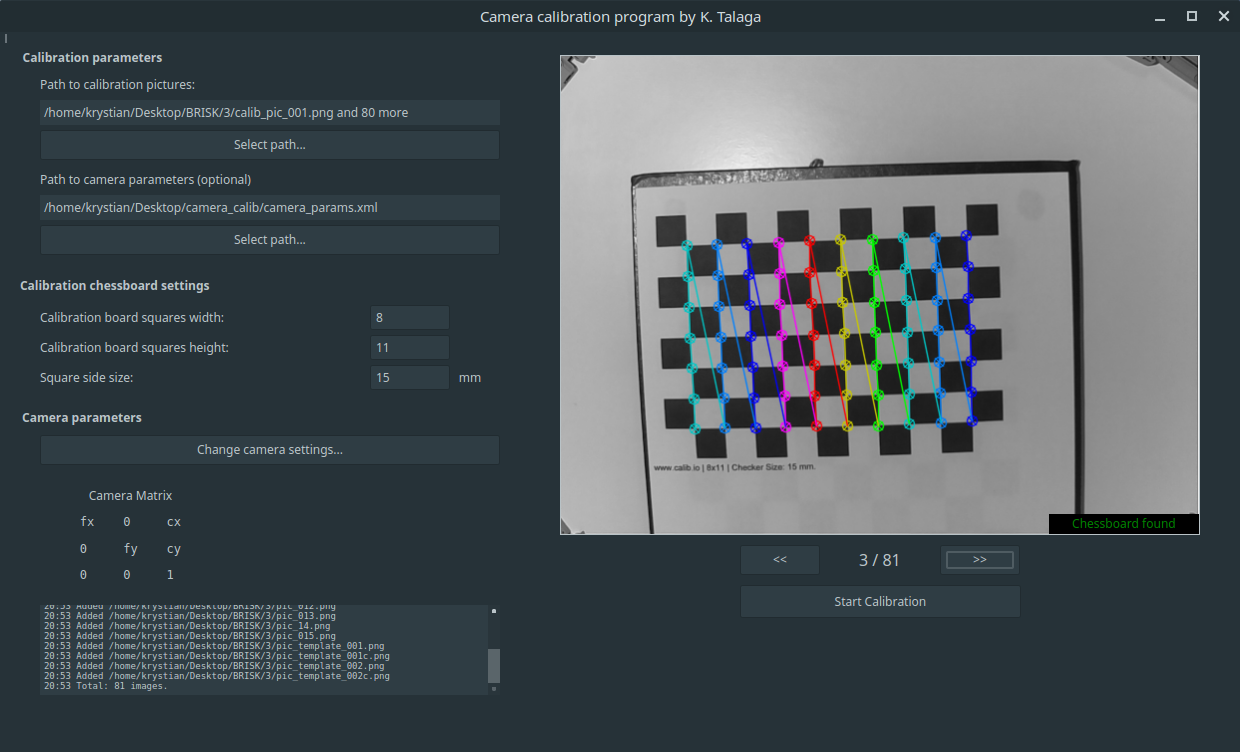
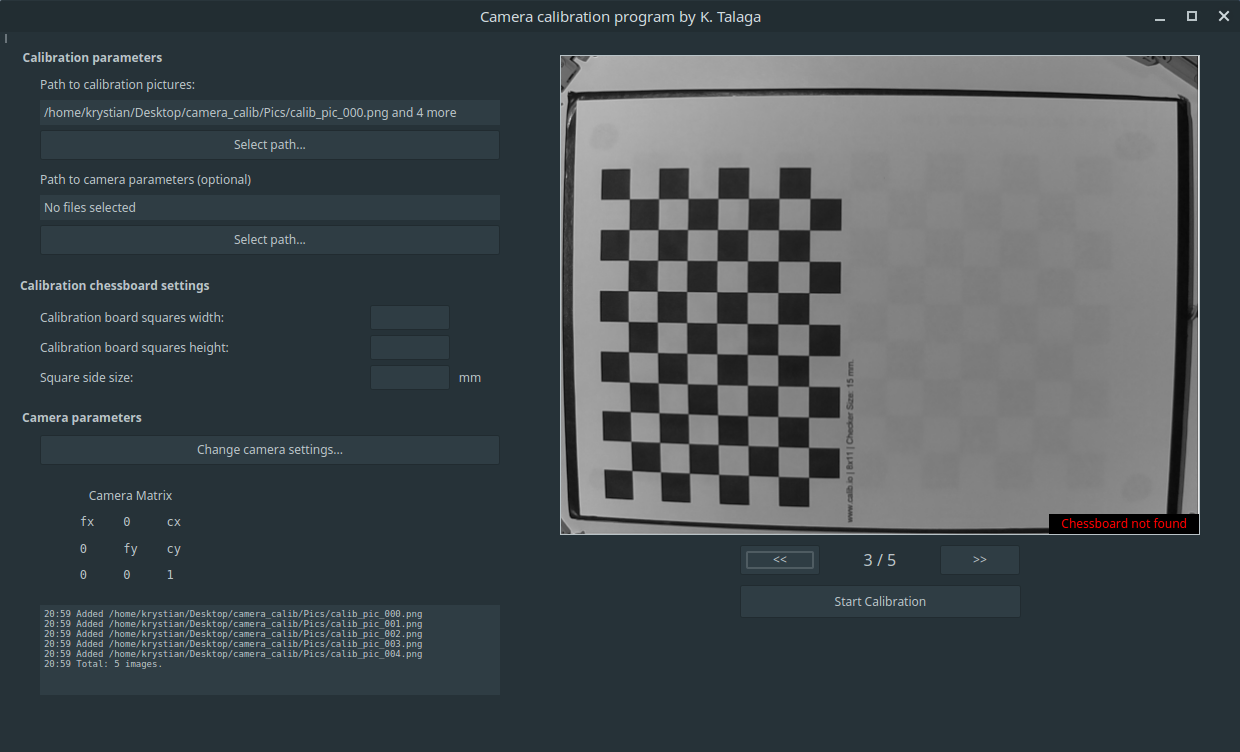
Updated screenshots and README.md.

diff --git a/README.md b/README.md
@@ -22,7 +22,7 @@ Here I will also put some interesting links with useful information needed to do
 # Sample screenshots of the program
 
 <p align="center">
-  <img src="https://raw.githubusercontent.com/Kuwashitamidayo/camera_calib/master/Screenshots/screen_001.png">
+  <img src="https://raw.githubusercontent.com/Kuwashitamidayo/camera_calib/master/Screenshots/screen_002.png">
 </p>
 
 # How to run the program
